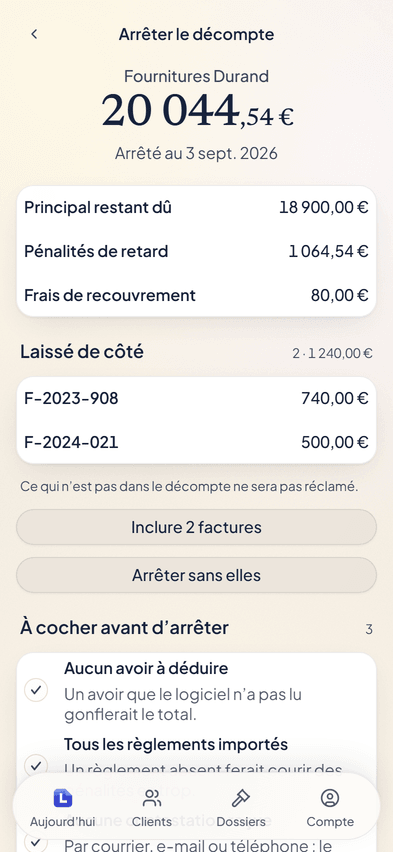
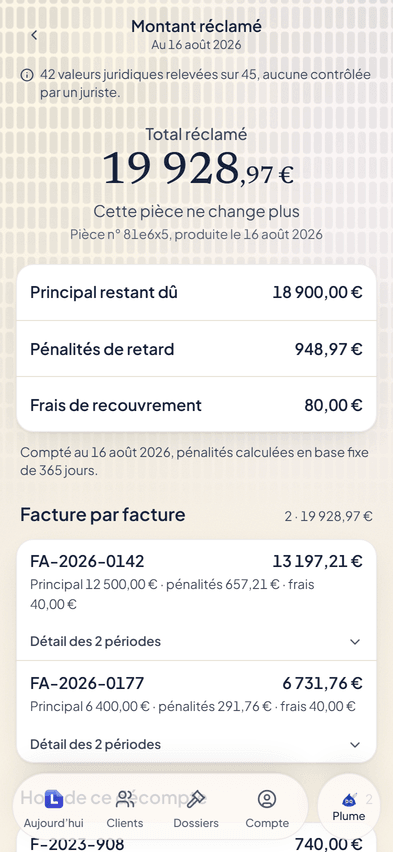
fix(site): ce que le site promet suit ce que fait le produit
Depuis le 08/10, les relances partent seules une fois activées. Le site disait
encore « Rien ne part sans votre validation », « Letikette ne contacte jamais
vos clients » et, dans la FAQ, « vous les relisez et les envoyez vous-même ».
Il dit désormais ce qui est vrai : rien ne part sans votre accord ; une fois les
relances activées, elles partent à votre nom et chacune se retient pendant
l'heure qui précède son départ ; rien ne part vers un tribunal. L'étape 04
montrait l'écran d'arrêt du décompte, qui n'existe plus : la capture montre le
montant réclamé, daté (le script refait une seule capture à la demande).
Au passage, la démo de la file ne présente plus un « décompte arrêtable », et
le texte lu par un lecteur d'écran sur une carte perd son tiret long.

diff --git a/scripts/capturer-ecrans.ts b/scripts/capturer-ecrans.ts
@@ -50,7 +50,8 @@ const CAPTURES: readonly Capture[] = [
 	// La file du matin : le même écran, descendu jusqu'aux clients à traiter.
 	{ nom: 'file', ecran: 'aujourd’hui', defilement: 330 },
 	{ nom: 'dossier', ecran: 'créance' },
-	{ nom: 'decompte', ecran: 'arrêt du décompte' },
+	// Le montant réclamé, daté : l'écran d'arrêt n'existe plus depuis le 09/10/2026.
+	{ nom: 'decompte', ecran: 'montant réclamé' },
 	{ nom: 'paiement', ecran: 'le client paie', sansBarre: true },
 	{ nom: 'depots', ecran: 'dépôt' }
 ];
@@ -65,7 +66,11 @@ async function main(): Promise<void> {
 		locale: 'fr-FR'
 	});
 
-	for (const capture of CAPTURES) {
+	// `node … capturer-ecrans.ts decompte` ne refait que cette capture-là.
+	const seulement = process.argv.slice(2);
+	const aPrendre =
+		seulement.length === 0 ? CAPTURES : CAPTURES.filter((capture) => seulement.includes(capture.nom));
+	for (const capture of aPrendre) {
 		await page.goto(BASE, { waitUntil: 'networkidle' });
 		await page.getByRole('button', { name: capture.ecran, exact: true }).first().click();
 		if (capture.variante !== undefined) {

diff --git a/src/marketing/etapes.tsx b/src/marketing/etapes.tsx
@@ -91,15 +91,15 @@ const ETAPES: readonly Etape[] = [
 		numero: '04',
 		titre: 'Envoyez une relance chiffrée',
 		texte:
-			'Le décompte détaille montant, pénalités et frais. Vous le relisez, le signez et l’envoyez.',
+			'Le décompte détaille montant, pénalités et frais. La relance part à votre nom, quand vous l’avez décidé.',
 		capacites: [
 			'Pénalités détaillées période par période.',
-			'Décompte daté et figé une fois arrêté.',
+			'Le montant daté et figé quand il est réclamé.',
 			'Dossier prêt à transmettre à votre avocat ou commissaire de justice.'
 		],
 		capture: 'decompte',
 		description:
-			'L’arrêt d’un décompte dans Letikette : 20 044,54 € au 3 septembre 2026, décomposés en principal, pénalités de retard et frais de recouvrement, avec les factures laissées de côté.',
+			'Un montant réclamé dans Letikette : 19 928,97 € au 16 août 2026, décomposés en principal, pénalités de retard et frais de recouvrement, facture par facture.',
 		teinte: 'argent'
 	},
 	{

diff --git a/src/routes/-salle/file.tsx b/src/routes/-salle/file.tsx
@@ -146,11 +146,11 @@ const RANGEES_DEMO: readonly RangeeDeLaFile[] = [
 	{
 		genre: 'OBSTACLE',
 		id: 'r-decompte-martin',
-		libelle: 'Décompte prêt',
+		libelle: 'Taux lu dans vos conditions',
 		famille: 'ARGENT',
 		debiteur: 'Ateliers Martin',
 		destination: { vers: '/app/dossier/$id', parametres: { id: CREANCE_MARTIN } },
-		obstacle: 'Décompte arrêtable, dont 1 240,33 € de pénalités de retard courues.',
+		obstacle: 'Vos conditions générales prévoient un taux de pénalités : il changerait les 1 240,33 € comptés à ce jour.',
 		urgence: 'HAUTE',
 		montant: 1_248_033n,
 		/*
@@ -172,7 +172,7 @@ const RANGEES_DEMO: readonly RangeeDeLaFile[] = [
 			onEcarter: () => {}
 		},
 		pli: {
-			libelle: { un: 'décompte arrêtable', plusieurs: 'décomptes arrêtables' },
+			libelle: { un: 'taux à confirmer', plusieurs: 'taux à confirmer' },
 			rienATrancher: false
 		}
 	},

diff --git a/src/marketing/hero.tsx b/src/marketing/hero.tsx
@@ -21,7 +21,7 @@ import { EcranProduit, Photo } from './section';
  * citable.
  *
  * ⚠ AUCUNE PROMESSE DE RÉSULTAT. Le logiciel calcule, surveille et prépare ;
- * le gérant valide et envoie.
+ * le gérant décide de ce qui part.
  */
 
 function indemniteLisible(): string | null {
@@ -61,7 +61,7 @@ export function Hero() {
 
 					<p className="leve max-w-2xl text-chapeau leading-relaxed text-encre-site-douce">
 						Letikette calcule les pénalités et les frais dus sur chaque facture en retard, surveille
-						les délais et prépare vos relances. Rien ne part sans votre validation.
+						les délais et prépare vos relances. Rien ne part sans votre accord.
 					</p>
 
 					{/* ⚠ UNE SEULE PILULE, ET UN LIEN. Deux boutons pleins côte à côte

diff --git a/src/routes/index.tsx b/src/routes/index.tsx
@@ -47,7 +47,7 @@ import { SITE_CANONIQUE } from '../lib/config/legal';
 const APERCU = `${SITE_CANONIQUE}/partage.png`;
 const TITRE = 'Letikette · Logiciel de recouvrement des factures impayées pour PME';
 const RESUME =
-	'Letikette calcule les pénalités et les frais dus sur chaque facture en retard, surveille les délais et prépare vos relances. Rien ne part sans votre validation.';
+	'Letikette calcule les pénalités et les frais dus sur chaque facture en retard, surveille les délais et prépare vos relances. Rien ne part sans votre accord.';
 
 export const Route = createFileRoute('/')({
 	head: () => ({

diff --git a/src/marketing/faq.tsx b/src/marketing/faq.tsx
@@ -29,7 +29,7 @@ function questions(): readonly { question: string; reponse: string }[] {
 		{
 			question: 'Letikette contacte-t-il mes clients ?',
 			reponse:
-				'Non. Les courriers sont préparés à votre nom ; vous les relisez et les envoyez vous-même.'
+				'Seulement si vous le décidez. Une fois les relances activées, les rappels et la lettre officielle partent par e-mail à votre nom, et chacun s’affiche une heure avant de partir pour que vous puissiez le retenir. Les réponses arrivent à votre adresse.'
 		},
 		{
 			question: 'Letikette encaisse-t-il l’argent ?',

diff --git a/src/marketing/securite.tsx b/src/marketing/securite.tsx
@@ -21,7 +21,7 @@ const GARDE_FOUS = [
 		Icone: PenLineIcon,
 		titre: 'Rien ne part sans vous',
 		texte:
-			'Chaque courrier est à votre nom et attend votre validation. Letikette ne contacte jamais vos clients.'
+			'Les relances partent à votre nom, une fois que vous les avez activées, et chacune se retient pendant l’heure qui précède son départ. Rien ne part vers un tribunal.'
 	},
 	{
 		Icone: BanknoteIcon,

diff --git a/src/ui/carte-rangee.tsx b/src/ui/carte-rangee.tsx
@@ -132,7 +132,7 @@ function DeuxLignes({
 				>
 					<span className={retour ? 'min-w-0' : 'min-w-0 truncate'}>
 						{ligne}
-						{attention ? <span className="sr-only"> — demande une réponse</span> : null}
+						{attention ? <span className="sr-only">, demande une réponse</span> : null}
 					</span>
 					{date === undefined || dateEnHaut ? null : (
 						<span className="shrink-0 tabular-nums">{date}</span>

diff --git a/src/routes/-salle/piece.tsx b/src/routes/-salle/piece.tsx
@@ -275,7 +275,7 @@ function PieceDemo({ etat, variante }: { etat: EtatDemo; variante?: string }) {
 	};
 	return (
 		<EcranPiece
-			identifiant="demo-decompte"
+			identifiant="kd7c2m9a4r81e6x5"
 			creanceId="demo-creance"
 			donnees={lectureDemo(etat, { ...depart, suivi })}
 		/>
